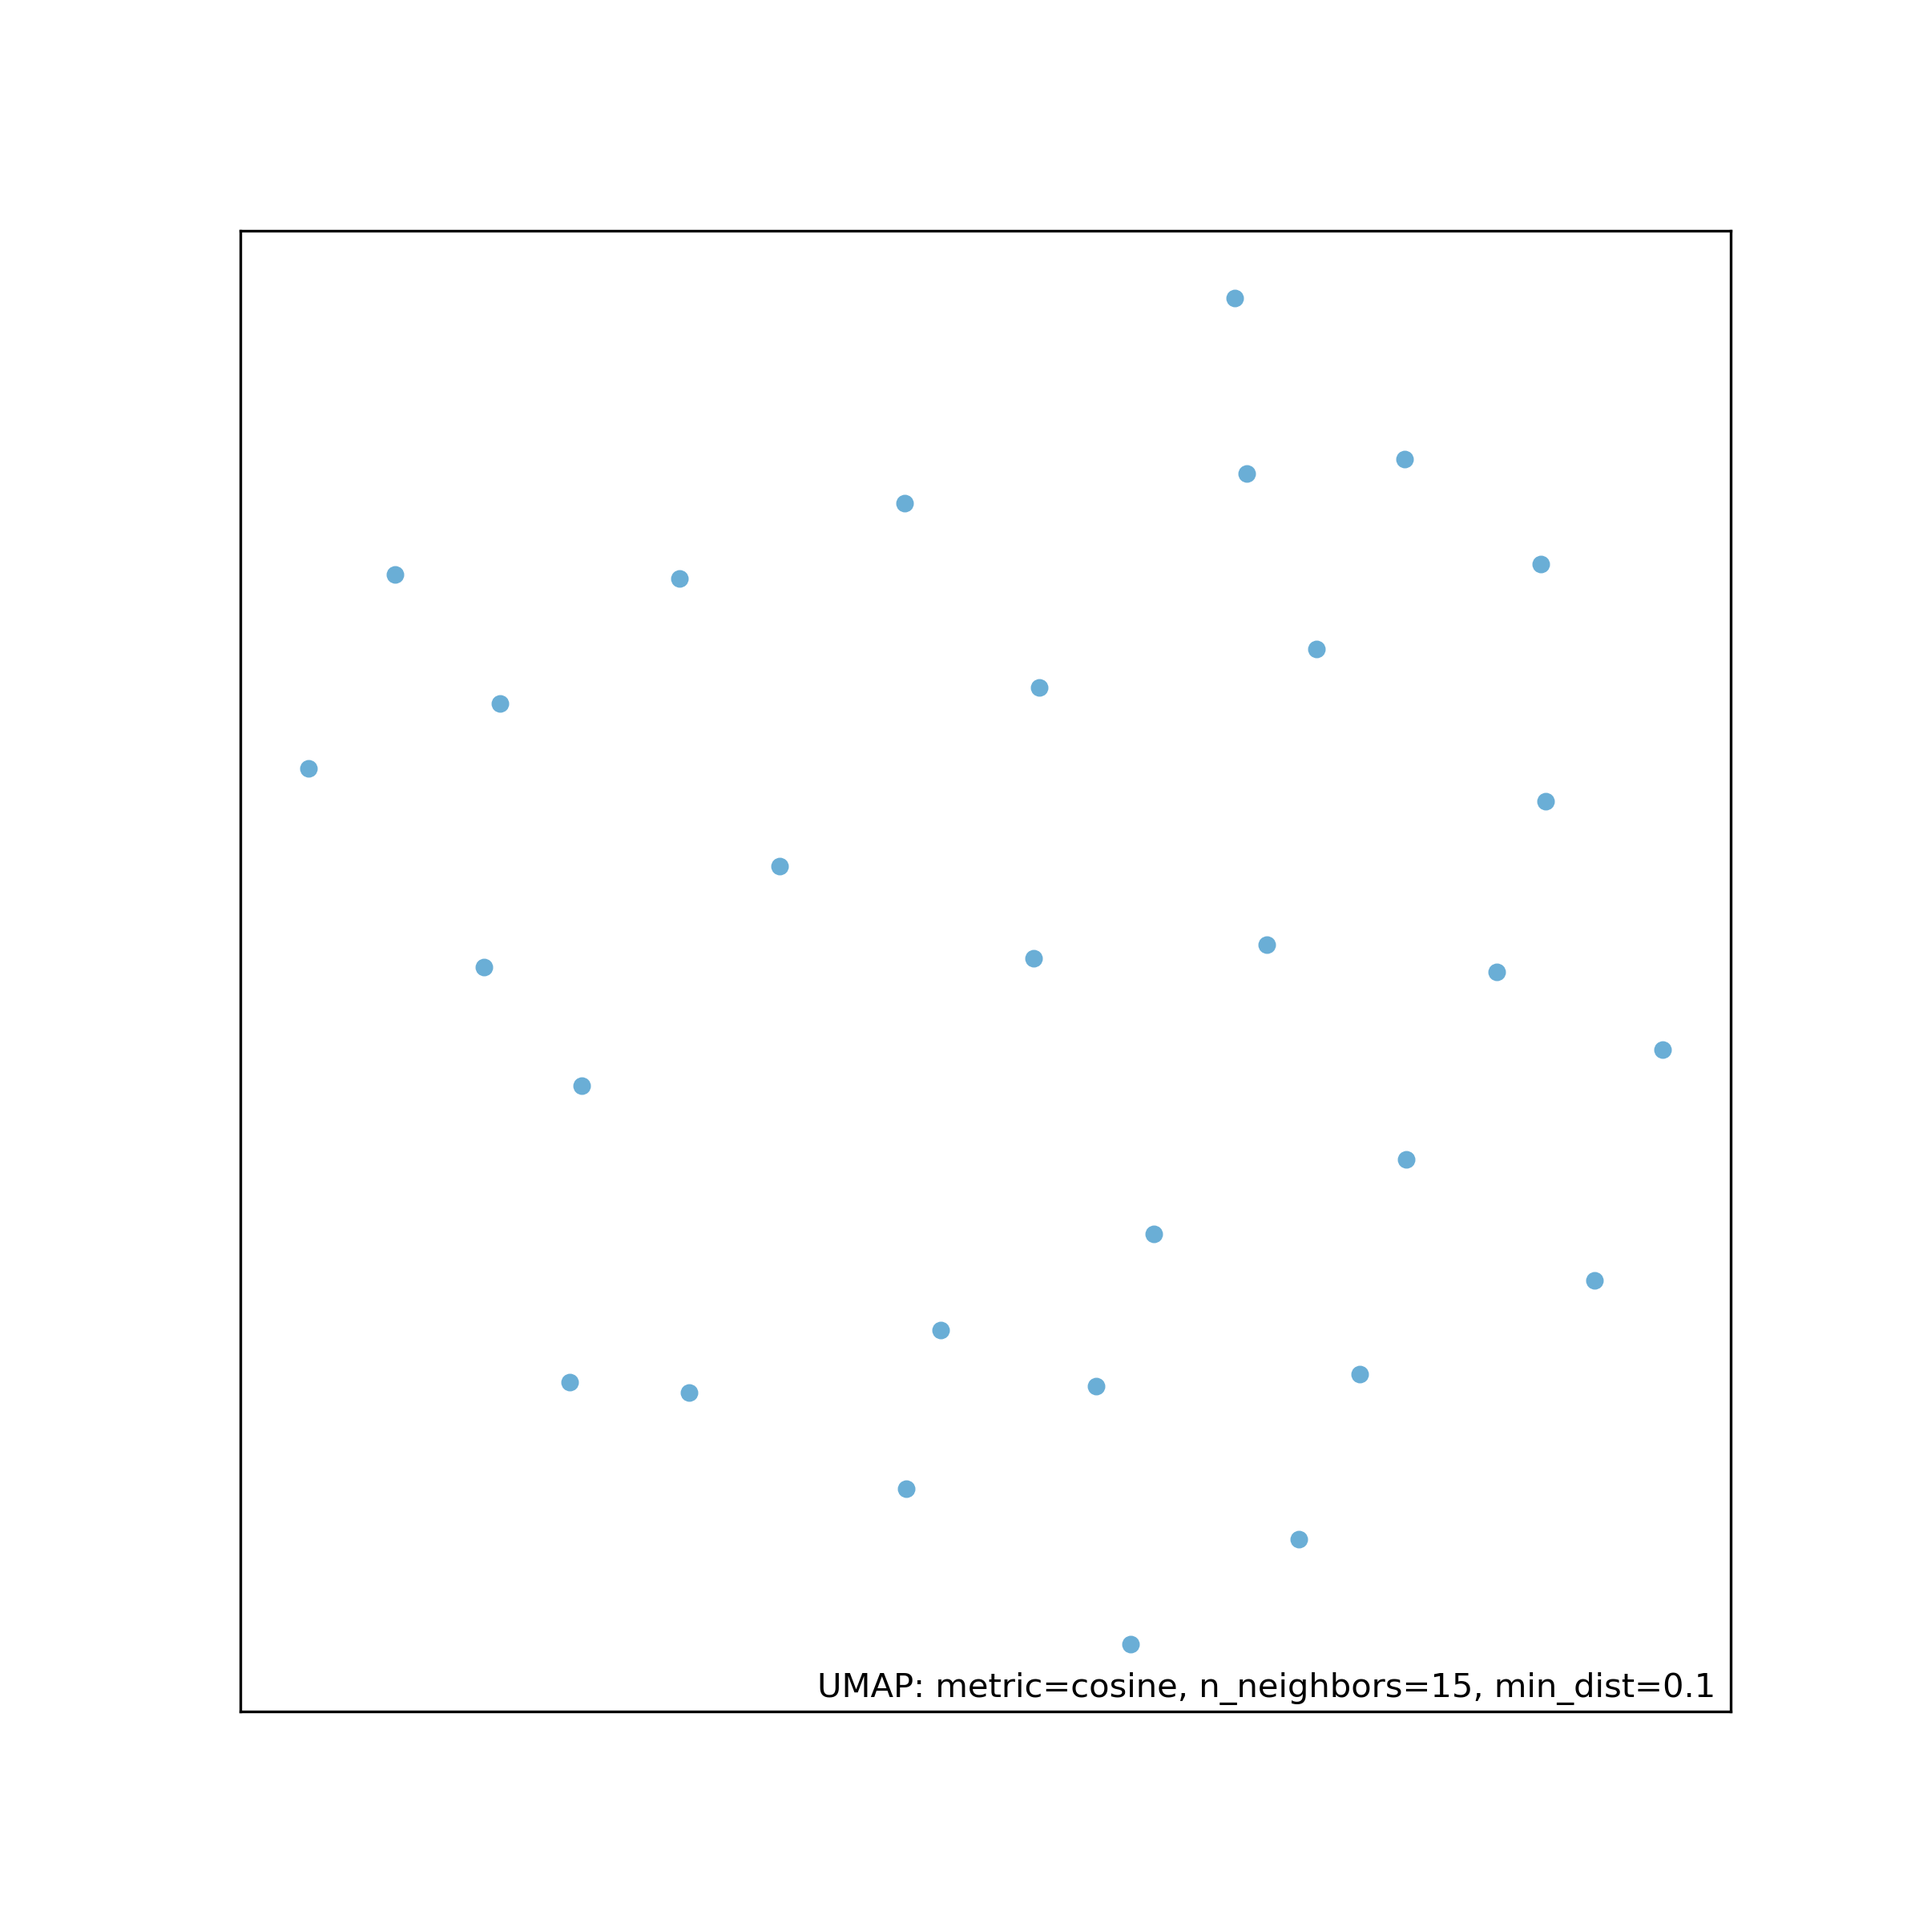
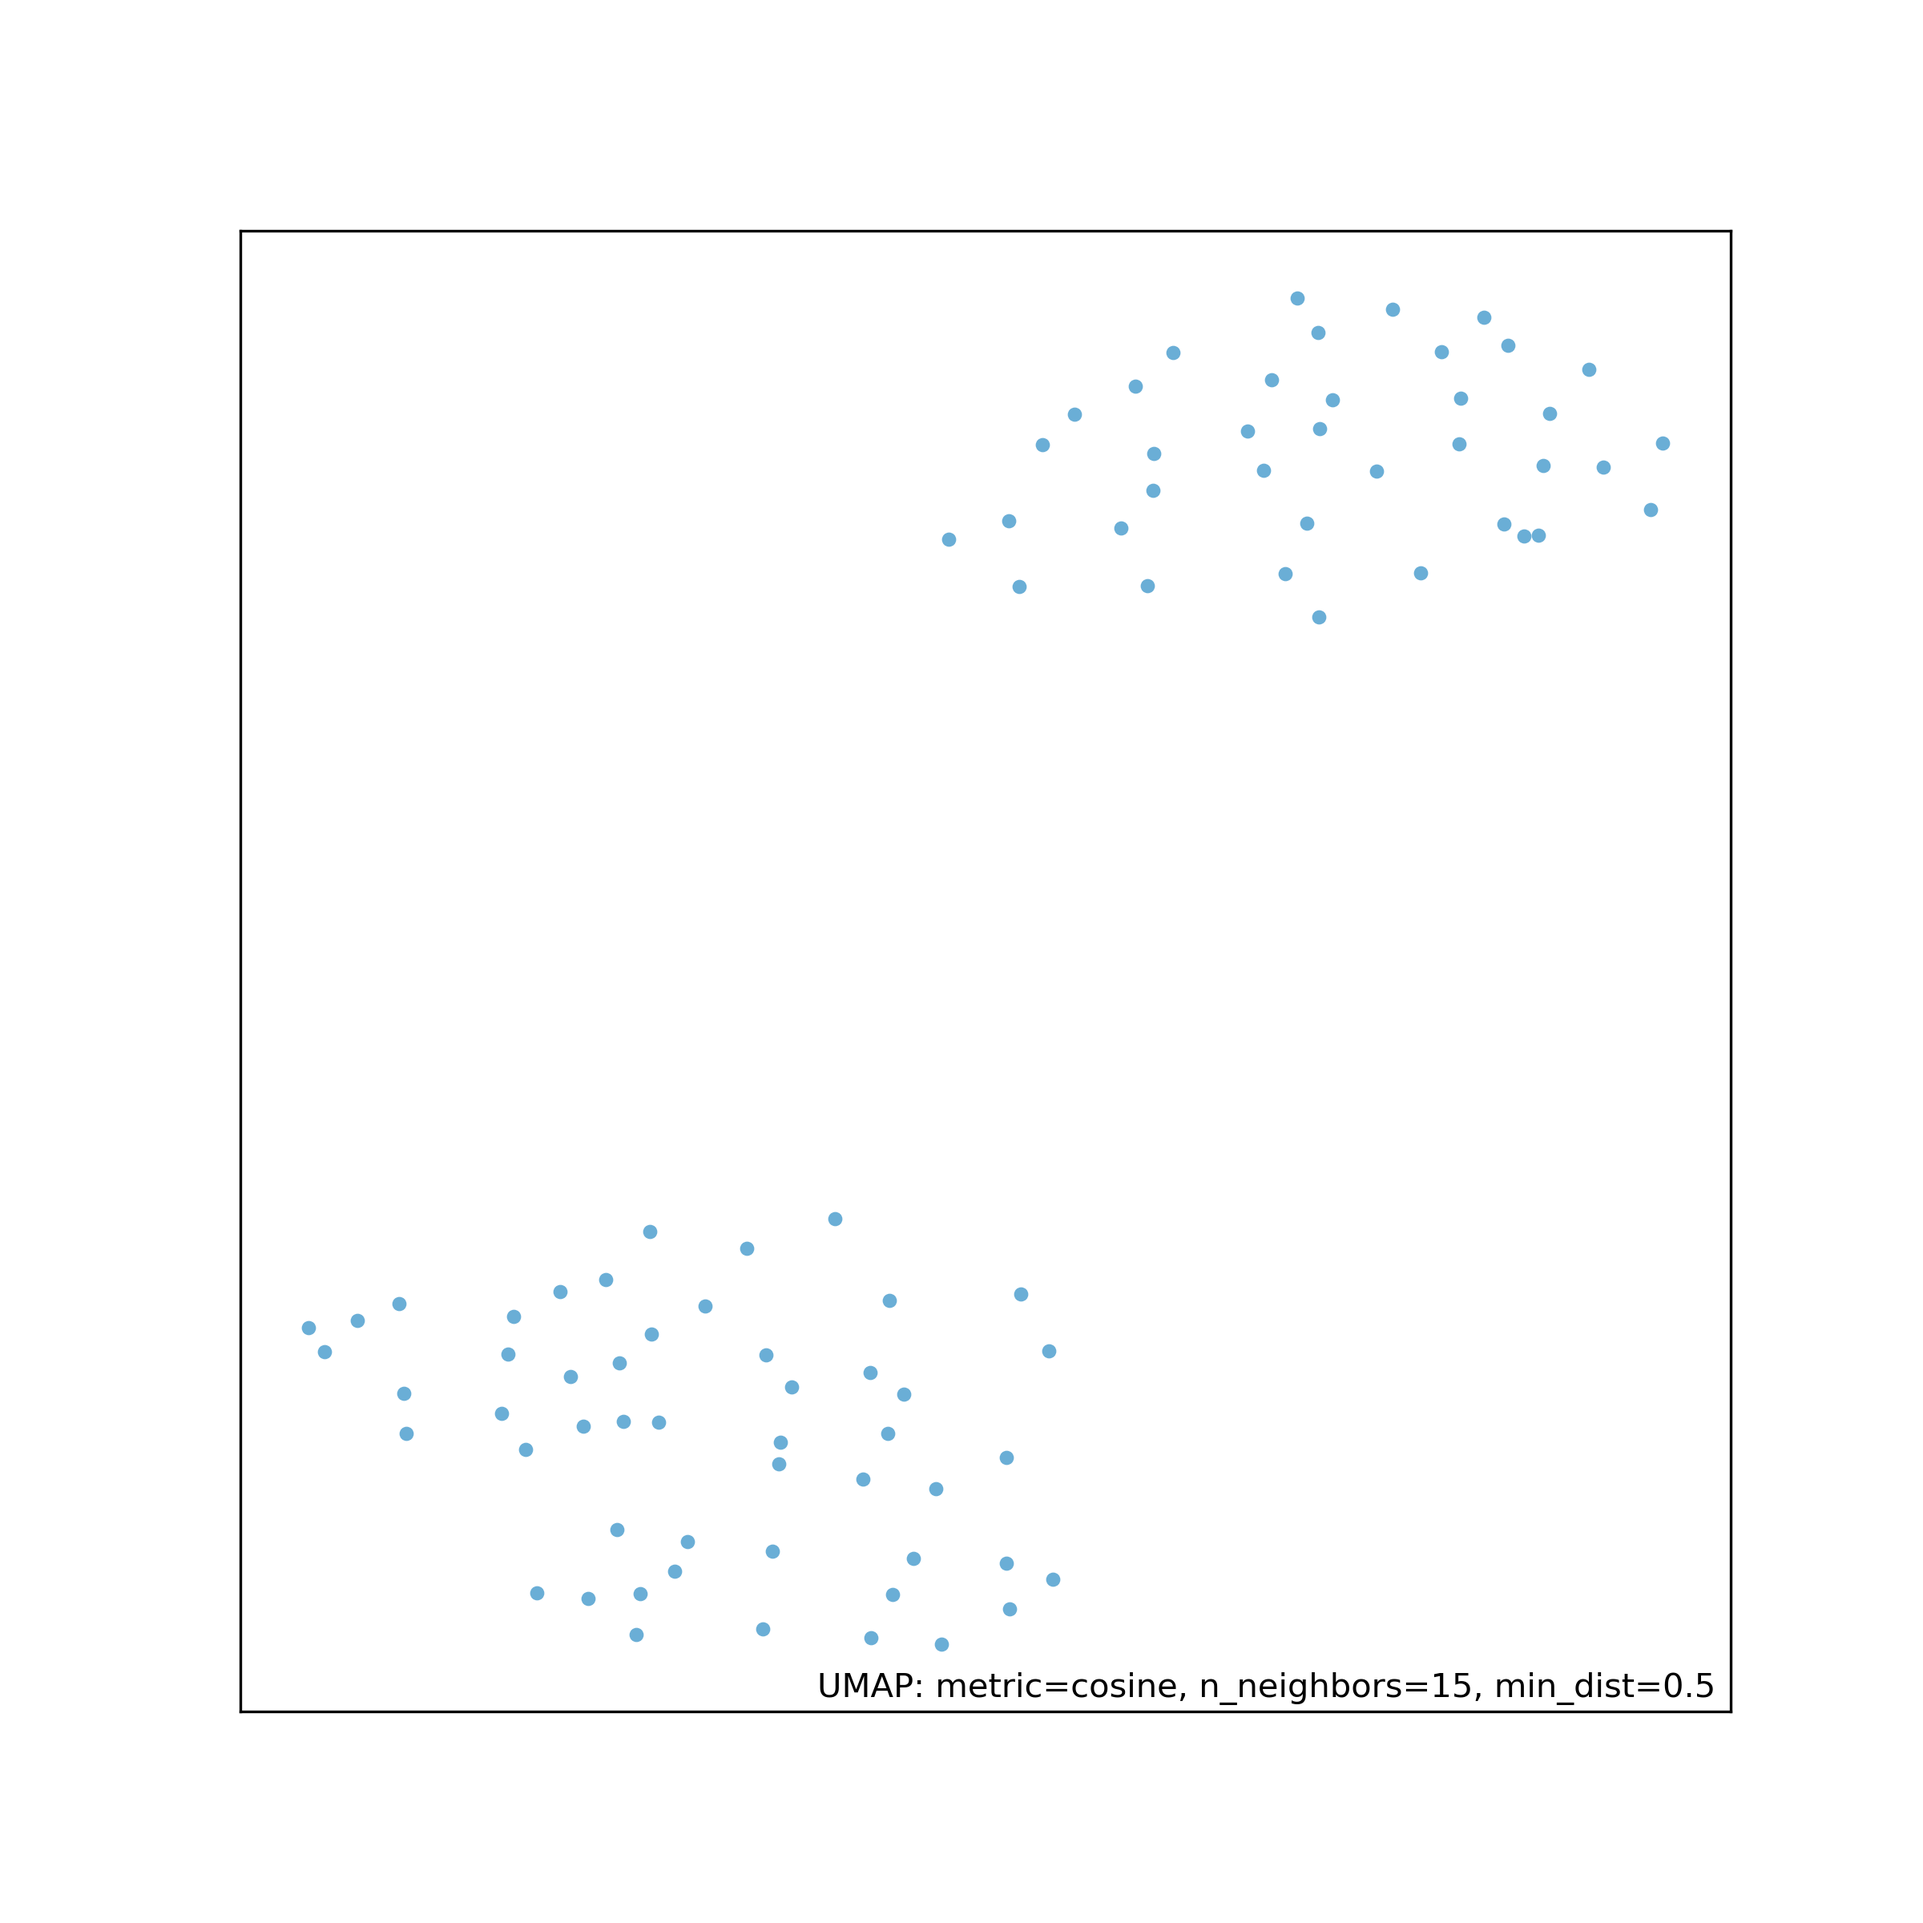
visualise embeddings with various parameters

diff --git a/visualise_embedding.py b/visualise_embedding.py
@@ -38,8 +38,19 @@ def most_common_word(chunk):
     return most_common
 
 #embedding_model = 'sentence-transformers/all-MiniLM-L6-v2'
+
+min_dist = 0.9
+n_neighbors = 30
+
 caches_dir = '/home/hgolawska/llm_summer_project/caches'
-filename = './work/pdf_to_txt/output/Binney_and_Tremaine_chap2.mmd'
+filename = './work/pdf_to_txt/output/cleaned/Binney_and_Tremaine_1-3_no_rrp.mmd'
+
+plot_title = f'UMAP projection of B&T 1-3 embeddings with nomic-embed-text\nmin_dist={min_dist}, n_neighbors={n_neighbors}'
+outfile_title = f'./work/plots/umap_1-3_no_rrp_level_higher.png'
+
+#model = SentenceTransformer(embedding_model, cache_folder=caches_dir, local_files_only=True)
+#model = 'mxbai-embed-large'
+model = 'nomic-embed-text'
 
 chunk_size = 250
 chunk_overlap = 50
@@ -58,7 +69,7 @@ for i in range(0, len(raw), chunk_size):
     labels = [most_common_word(chunk) for chunk in chunks]'''
 
 # split into chunks corresponding to sections
-chunks = raw.split('#')
+chunks = raw.split('###')
 # remove empty chunks
 chunks = [chunk for chunk in chunks if chunk]
 # use the first line of each chunk as the label
@@ -75,29 +86,24 @@ print('average number of words in a chunk:', sum(words) / len(words))
 # print(labels[0])  # print the label for the first chunk
 
 # create the embeddings for the documents
-#model = SentenceTransformer(embedding_model, cache_folder=caches_dir, local_files_only=True)
-model = 'mxbai-embed-large'
-# model = nomic-embed-text
-print('loaded an embedding model')
+
+
 
 #doc_embeddings = model.encode(chunks, show_progress_bar=True)
 response = ollama.embed(model=model, input=chunks)
 doc_embeddings = response["embeddings"]
 print('calculated embeddings')
-print(type(doc_embeddings))
 doc_embeddings = np.array(doc_embeddings)
 print('embedding shape:', doc_embeddings.shape)
 
+min_dist = 0.5
+n_neighbors = 15
+
 # reduce the dimensionality of the embeddings using UMAP
-flat_embeddings = umap.UMAP(n_components=2, metric='cosine').fit(doc_embeddings)
+flat_embeddings = umap.UMAP(n_components=2, min_dist=min_dist, n_neighbors=n_neighbors, metric='cosine').fit(doc_embeddings)
 print('flat embedding shape:', flat_embeddings.embedding_.shape)
 
 # plot the embeddings
-
-plt.figure(figsize=(10, 10))
-plt.title('UMAP projection of the document embeddings')
-umap.plot.points(flat_embeddings)h
-plt.savefig('work/plots/umap_projection_headings.png', dpi=300)
 
 fig, ax = plt.subplots(figsize=(12,12))
 ax.scatter(flat_embeddings.embedding_[:, 0], flat_embeddings.embedding_[:, 1], color='lightblue', alpha=1, s=30, edgecolors=None)
@@ -114,5 +120,5 @@ for i in range(0, flat_embeddings.embedding_.shape[0]):
             horizontalalignment='center',
             verticalalignment='center',
            )
-plt.title('UMAP projection of the document embeddings with mxbai-embed-large')
-plt.savefig('work/plots/umap_projection_headings_mxbai-embed-large_not_cleaned.png', dpi=300)
+plt.title(plot_title)
+plt.savefig(outfile_title, dpi=300)

diff --git a/work/pdf_to_txt/clean_mmd.py b/work/pdf_to_txt/clean_mmd.py
@@ -104,11 +104,7 @@ def process_directory(directory, outfile_path):
     for filename in filenames:
         cleaned_text = process_file(filename)
         name = (filename.split('/')[-1]).split('.')[-2]
-<<<<<<< HEAD
-        outfile_name = outfile_path + '/' + name + '_no_rrp.mmd'
-=======
         outfile_name = outfile_path + '/' + name + '.mmd'
->>>>>>> 5eedc97a8454eb002cef8c5f1cbf86642915b02a
         with open(outfile_name, 'w') as outfile:
             outfile.write(cleaned_text)
 
